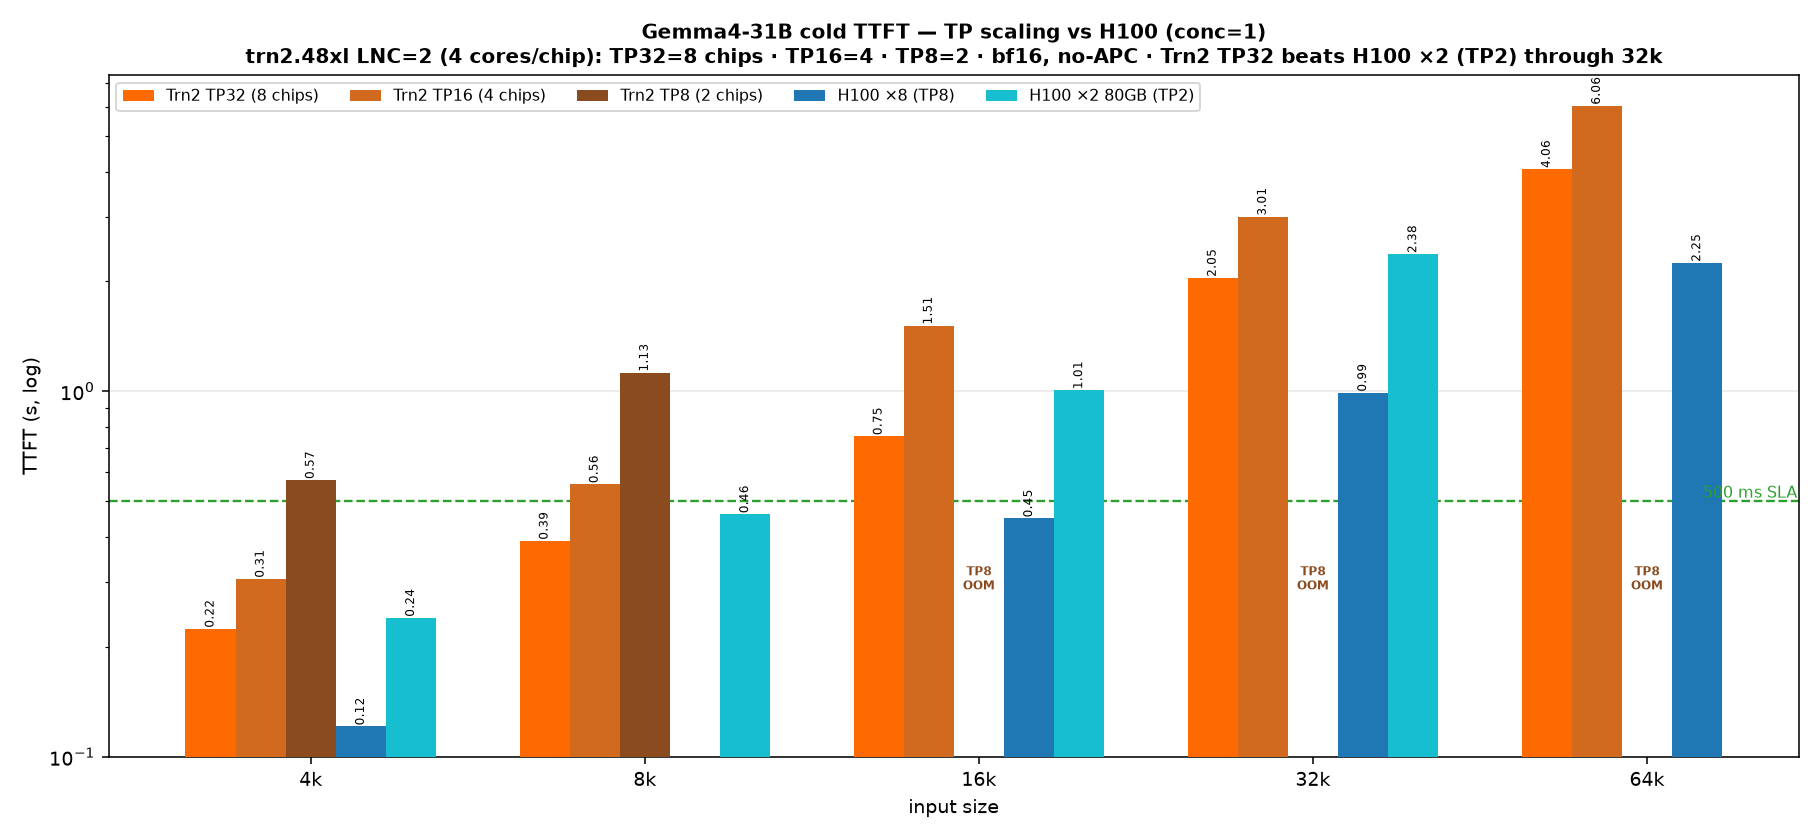
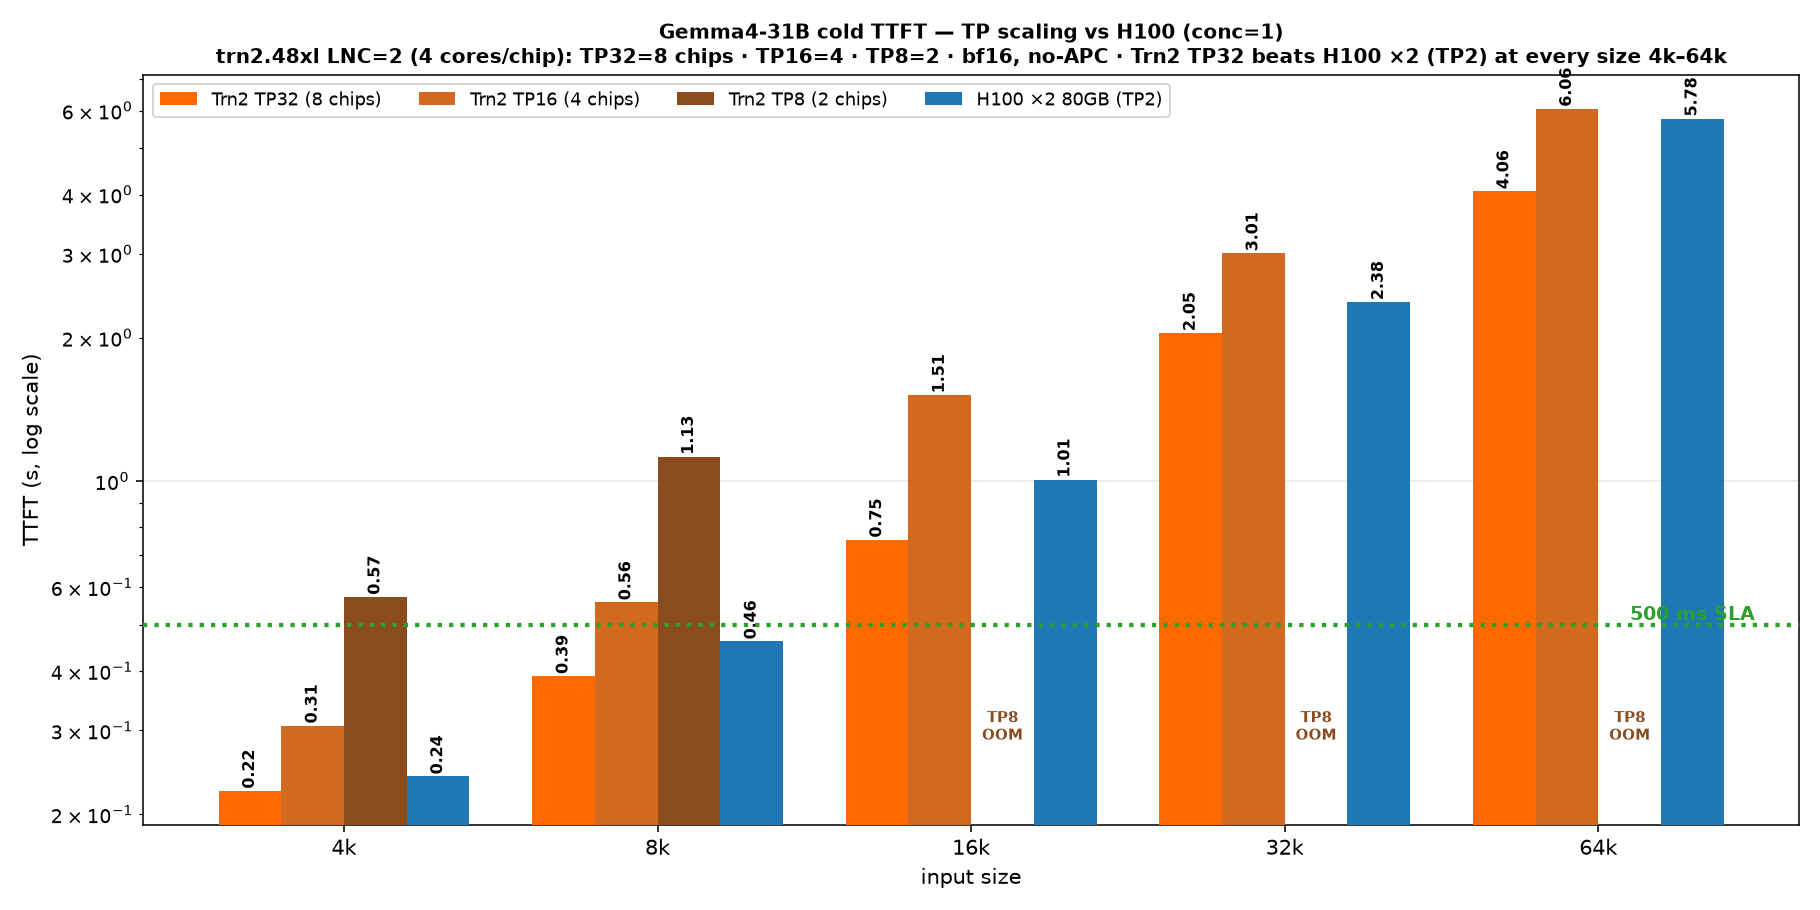
Gemma4-31B no-APC TP charts: comparable-scale H100 x2 (TP2) baseline + dotted 500ms SLA
- Drop the 8-GPU H100 x8 (TP8) series; keep the comparable-scale H100 x2 80GB (TP2) baseline.

- Add H100 x2 (TP2) 64k concurrency sweep. Trn2 TP32 (8 chips) now beats H100 x2 (TP2) cold at every size incl 64k: 0.224/0.390/0.754/2.046/4.064 s vs 0.240/0.461/1.008/2.377/5.778 s (conc=1).

- Dotted 500 ms SLA reference line on both charts; wider bars + bolder labels for readability.

- README conc=1 table and H100 comparison note updated to match.

diff --git a/gemma4-31b/vllm-neuron-4k_16k_32k_64k_no_APC/make_perf_chart_tp.py b/gemma4-31b/vllm-neuron-4k_16k_32k_64k_no_APC/make_perf_chart_tp.py
@@ -11,11 +11,10 @@ Topology: LNC=2 (logical-neuroncore-config=2) -> 4 logical cores/chip, 96GB/chip
 - <=8k single-shot; 16k TP32 single-shot / TP16 segmented; 32k/64k SWA-windowed.
 - TP8 (2 chips): 4k/8k only — long-context 66560-config HBM-OOMs (27.45GB > 24GB/core).
 
-GPU baselines (two H100 configs):
-- "H100 ×8 (TP8)": 8× H100 at TP=8 — a large 8-GPU config; fastest here. No 8k point.
+GPU baseline (comparable-scale H100 config):
 - "H100 2×80GB (TP2)": 2× H100 80GB, TP=2 — a comparable-scale GPU config. Trn2 TP32
-  BEATS it at 4k/8k/16k/32k (0.224/0.390/0.754/2.046 vs 0.240/0.461/1.008/2.377).
-  No 64k point (2× H100 80GB OOMs at 64k KV).
+  BEATS it at every size 4k/8k/16k/32k/64k
+  (0.224/0.390/0.754/2.046/4.064 vs 0.240/0.461/1.008/2.377/5.778).
 """
 import os
 import matplotlib
@@ -34,20 +33,18 @@ TP16 = {"4k": [0.307,0.449,0.744,2.36,5.852,13.323], "8k": [0.557,0.833,1.384,3.
         "16k": [1.515,2.271,5.89,14.1,31.065,65.229], "32k": [3.01,4.514,9.519], "64k": [6.056,9.09,17.01]}
 TP8  = {"4k": [0.572,0.855,2.56,6.201,14.155,29.574], "8k": [1.126,1.684,3.853,8.704,18.612,38.636],
         "16k": None, "32k": None, "64k": None}   # long-ctx OOM
-H100 = {"4k": [0.121,0.164,0.301,0.468,0.806,1.494], "8k": None,
-        "16k": [0.449,0.627,1.009,1.727,3.207,6.156], "32k": [0.992,1.372,2.201,3.827,7.094,13.597],
-        "64k": [2.249,3.192,5.139,9.005,16.773,32.258]}
-# 2x H100 80GB, TP=2 (comparable-scale GPU config). 4k/8k/16k out=40, 32k out=500.
-# 64k = OOM (2x H100 80GB can't hold 64k KV).
+# 2x H100 80GB, TP=2 (comparable-scale GPU config). 4k/8k/16k out=40; 32k/64k longer output
+# (TTFT is first-token latency, so output length doesn't affect it).
 H100_TP2 = {"4k": [0.240,0.359,0.637,1.139,2.075,3.964], "8k": [0.461,0.694,1.197,2.157,4.100,8.021],
-            "16k": [1.008,1.510,2.569,4.651,8.812,16.894], "32k": [2.377,3.565,5.927,10.714,20.192,42.746], "64k": None}
+            "16k": [1.008,1.510,2.569,4.651,8.812,16.894], "32k": [2.377,3.565,5.927,10.714,20.192,42.746],
+            "64k": [5.778,8.699,14.594,26.003,48.894,94.487]}
 
-# order = bar order left->right; H100 configs last
-SERIES = [("TP32", TP32), ("TP16", TP16), ("TP8", TP8), ("H100", H100), ("H100_TP2", H100_TP2)]
-COLORS = {"TP32": "#ff6a00", "TP16": "#d1691f", "TP8": "#8a4b1f", "H100": "#1f77b4", "H100_TP2": "#17becf"}
+# order = bar order left->right; H100 baseline last
+SERIES = [("TP32", TP32), ("TP16", TP16), ("TP8", TP8), ("H100_TP2", H100_TP2)]
+COLORS = {"TP32": "#ff6a00", "TP16": "#d1691f", "TP8": "#8a4b1f", "H100_TP2": "#1f77b4"}
 LABELS = {"TP32": "Trn2 TP32 (8 chips)", "TP16": "Trn2 TP16 (4 chips)", "TP8": "Trn2 TP8 (2 chips)",
-          "H100": "H100 ×8 (TP8)", "H100_TP2": "H100 ×2 80GB (TP2)"}
-OFF = {"TP32": -2, "TP16": -1, "TP8": 0, "H100": 1, "H100_TP2": 2}
+          "H100_TP2": "H100 ×2 80GB (TP2)"}
+OFF = {"TP32": -1.5, "TP16": -0.5, "TP8": 0.5, "H100_TP2": 1.5}
 OUT = os.path.join(os.path.dirname(os.path.abspath(__file__)), "assets")
 os.makedirs(OUT, exist_ok=True)
 
@@ -57,10 +54,10 @@ def c1(d, s):
     return v[0] if v else None
 
 
-# ---- Chart 1: conc=1 TP-scaling bars (per size), incl. both H100 configs ----
+# ---- Chart 1: conc=1 TP-scaling bars (per size), incl. H100 ×2 baseline ----
 def chart_conc1():
-    fig, ax = plt.subplots(figsize=(13, 6))
-    x = np.arange(len(SIZES)); w = 0.15
+    fig, ax = plt.subplots(figsize=(13, 6.5))
+    x = np.arange(len(SIZES)); w = 0.2
     for name, d in SERIES:
         vals = [c1(d, s) for s in SIZES]
         xs = [x[i] + OFF[name] * w for i in range(len(SIZES)) if vals[i] is not None]
@@ -68,21 +65,23 @@ def chart_conc1():
         bars = ax.bar(xs, ys, w, label=LABELS[name], color=COLORS[name], zorder=3)
         for b, y in zip(bars, ys):
             ax.annotate(f"{y:.2f}", (b.get_x() + b.get_width() / 2, y), textcoords="offset points",
-                        xytext=(0, 2), ha="center", fontsize=6, rotation=90)
+                        xytext=(0, 3), ha="center", fontsize=8, fontweight="bold", rotation=90)
     for s in ["16k", "32k", "64k"]:
         i = SIZES.index(s)
         ax.annotate("TP8\nOOM", (x[i] + OFF["TP8"] * w, 0.28), ha="center", va="bottom",
-                    fontsize=6, color=COLORS["TP8"], fontweight="bold")
-    ax.axhline(0.5, color="#2ca02c", ls="--", lw=1.2)
-    ax.annotate("500 ms SLA", (len(SIZES) - 0.55, 0.5), color="#2ca02c", fontsize=8, va="bottom", ha="right")
-    ax.set_yscale("log"); ax.set_xticks(x); ax.set_xticklabels(SIZES)
-    ax.set_ylabel("TTFT (s, log)"); ax.set_xlabel("input size")
+                    fontsize=7.5, color=COLORS["TP8"], fontweight="bold")
+    # 500 ms SLA reference — dotted horizontal line
+    ax.axhline(0.5, color="#2ca02c", ls=":", lw=2.2, zorder=4)
+    ax.annotate("500 ms SLA", (len(SIZES) - 0.5, 0.5), color="#2ca02c", fontsize=10,
+                fontweight="bold", va="bottom", ha="right")
+    ax.set_yscale("log"); ax.set_xticks(x); ax.set_xticklabels(SIZES, fontsize=11)
+    ax.set_ylabel("TTFT (s, log scale)", fontsize=11); ax.set_xlabel("input size", fontsize=11)
     ax.set_title("Gemma4-31B cold TTFT — TP scaling vs H100 (conc=1)\n"
                  "trn2.48xl LNC=2 (4 cores/chip): TP32=8 chips · TP16=4 · TP8=2 · bf16, no-APC · "
-                 "Trn2 TP32 beats H100 ×2 (TP2) through 32k",
+                 "Trn2 TP32 beats H100 ×2 (TP2) at every size 4k–64k",
                  fontsize=10.5, fontweight="bold")
     ax.grid(True, axis="y", alpha=0.3, zorder=0)
-    ax.legend(ncol=5, fontsize=8, loc="upper left")
+    ax.legend(ncol=4, fontsize=9.5, loc="upper left")
     fig.tight_layout()
     p = os.path.join(OUT, "ttft_tp_scaling_conc1_lnc2.png"); fig.savefig(p, dpi=140); print("wrote", p)
 
@@ -92,7 +91,7 @@ def chart_sweep():
     panels = ["4k", "8k", "16k", "32k", "64k"]
     fig, axes = plt.subplots(2, 3, figsize=(16, 9))
     fig.suptitle("Gemma4-31B cold TTFT vs concurrency — Trn2 TP32/TP16/TP8 vs H100 (bf16, no-APC, LNC=2)\n"
-                 "TP32=8 chips · TP16=4 chips · TP8=2 chips · H100 configs: ×8 (TP8) and ×2 80GB (TP2)",
+                 "TP32=8 chips · TP16=4 chips · TP8=2 chips · H100 ×2 80GB (TP2) baseline",
                  fontsize=12, fontweight="bold")
     axf = axes.flat
     for ax, s in zip(axf, panels):
@@ -103,6 +102,10 @@ def chart_sweep():
             conc = CONC if len(v) == 6 else CL
             ax.plot(conc, [x * 1000 for x in v], "-o", color=COLORS[name], lw=2, ms=5,
                     label=LABELS[name], zorder=3)
+        # 500 ms SLA reference — dotted horizontal line
+        ax.axhline(500, color="#2ca02c", ls=":", lw=1.8, zorder=2)
+        ax.annotate("500 ms SLA", (CONC[-1], 500), color="#2ca02c", fontsize=8,
+                    fontweight="bold", va="bottom", ha="right")
         ax.set_xscale("log", base=2); ax.set_yscale("log")
         ax.set_xticks(CONC); ax.set_xticklabels(CONC)
         ax.set_title(f"{s} input", fontsize=12, fontweight="bold")

diff --git a/gemma4-31b/vllm-neuron-4k_16k_32k_64k_no_APC/README.md b/gemma4-31b/vllm-neuron-4k_16k_32k_64k_no_APC/README.md
@@ -80,16 +80,16 @@ core**. TP maps 1 rank → 1 logical core (4 per chip), so **TP=32 = 8 chips**, 
 ![Gemma4-31B cold TTFT by input size — TP scaling at conc=1: TP32 (8 chips) / TP16 (4 chips) / TP8 (2 chips) vs H100](./assets/ttft_tp_scaling_conc1_lnc2.png)
 
 **conc=1 TTFT (s):**
-| size | TP32 (8 chips) | TP16 (4 chips) | TP8 (2 chips) | H100 ×8 (TP8) | **H100 ×2 80GB (TP2)** |
-|---|---:|---:|---:|---:|---:|
-| 4k | **0.224** | 0.307 | 0.572 | 0.121 | 0.240 |
-| 8k | **0.390** | 0.557 | 1.126 | — | 0.461 |
-| 16k | **0.754** | 1.515 † | **OOM** | 0.449 | 1.008 |
-| 32k | **2.046** | 3.01 | **OOM** | 0.992 | 2.377 ‡ |
-| 64k | **4.064** | 6.056 | **OOM** | 2.249 | **OOM** |
+| size | TP32 (8 chips) | TP16 (4 chips) | TP8 (2 chips) | **H100 ×2 80GB (TP2)** |
+|---|---:|---:|---:|---:|
+| 4k | **0.224** | 0.307 | 0.572 | 0.240 |
+| 8k | **0.390** | 0.557 | 1.126 | 0.461 |
+| 16k | **0.754** | 1.515 † | **OOM** | 1.008 |
+| 32k | **2.046** | 3.01 | **OOM** | 2.377 ‡ |
+| 64k | **4.064** | 6.056 | **OOM** | 5.778 |
 
 † TP16 16k measured via the segmented path (single-shot 16k needs prompt headroom under the 16384 cap).
-‡ `H100 ×2 80GB (TP2)` 32k measured with 500 output tokens (4k/8k/16k use 40); TTFT is first-token latency, so output length does not affect it. At **64k the 2× H100 80GB config OOMs** (can't hold the KV cache), so it has no 32k+ entry beyond this.
+‡ `H100 ×2 80GB (TP2)` 32k/64k measured with longer output (4k/8k/16k use 40); TTFT is first-token latency, so output length does not affect it. Even at **64k, Trn2 TP32 (4.064 s) beats the 2× H100 80GB config (5.778 s)** cold.
 
 **What the TP sweep shows:**
 - **TP32 has the lowest TTFT** — it shards the prefill matmuls across the most cores, so first-token
@@ -102,11 +102,10 @@ core**. TP maps 1 rank → 1 logical core (4 per chip), so **TP=32 = 8 chips**, 
   TP32. At TP32 the same seg=8192 config shards 32 ways and fits (that's the measured 2.05 s at 32k).
   Fewer cores → more per-core HBM → OOM. Same config, different TP → different outcome.
 
-**Honest note on the H100 comparison:** these are Trn2's **cold / bf16 / no-APC worst-case** numbers,
-the large **`H100 ×8 (TP8)`** (8 GPUs) shows lower TTFT here — ~1.5–2× at conc=1. **But against a
-comparable-scale `H100 ×2 80GB (TP2)` (2 GPUs), Trn2 TP32 (8 chips) is actually *faster* at 4k/8k/16k/32k
-even cold** (0.224/0.390/0.754/2.046 vs 0.240/0.461/1.008/2.377 s) — and at **64k the 2× H100 80GB config
-OOMs entirely** while Trn2 TP32 still serves it at 4.06 s. Trn2's win widens further in the **APC / RAG config**
+**Note on the H100 comparison:** these are Trn2's **cold / bf16 / no-APC worst-case** numbers. Against a
+comparable-scale **`H100 ×2 80GB (TP2)`** (2 GPUs), **Trn2 TP32 (8 chips) is *faster* at every size
+even cold** (0.224/0.390/0.754/2.046/4.064 vs 0.240/0.461/1.008/2.377/5.778 s) — including **64k, where
+Trn2 TP32 (4.06 s) beats the 2× H100 80GB config (5.78 s)**. Trn2's win widens further in the **APC / RAG config**
 (fp8-KV cache-hits) — see the sibling
 [`../vllm-neuron-4k_16k_32k_64_PublicVLLM`](../vllm-neuron-4k_16k_32k_64_PublicVLLM). This folder is
 the honest cold floor; TP8/TP16's real value is throughput / $-per-token and replica density, not cold TTFT.
